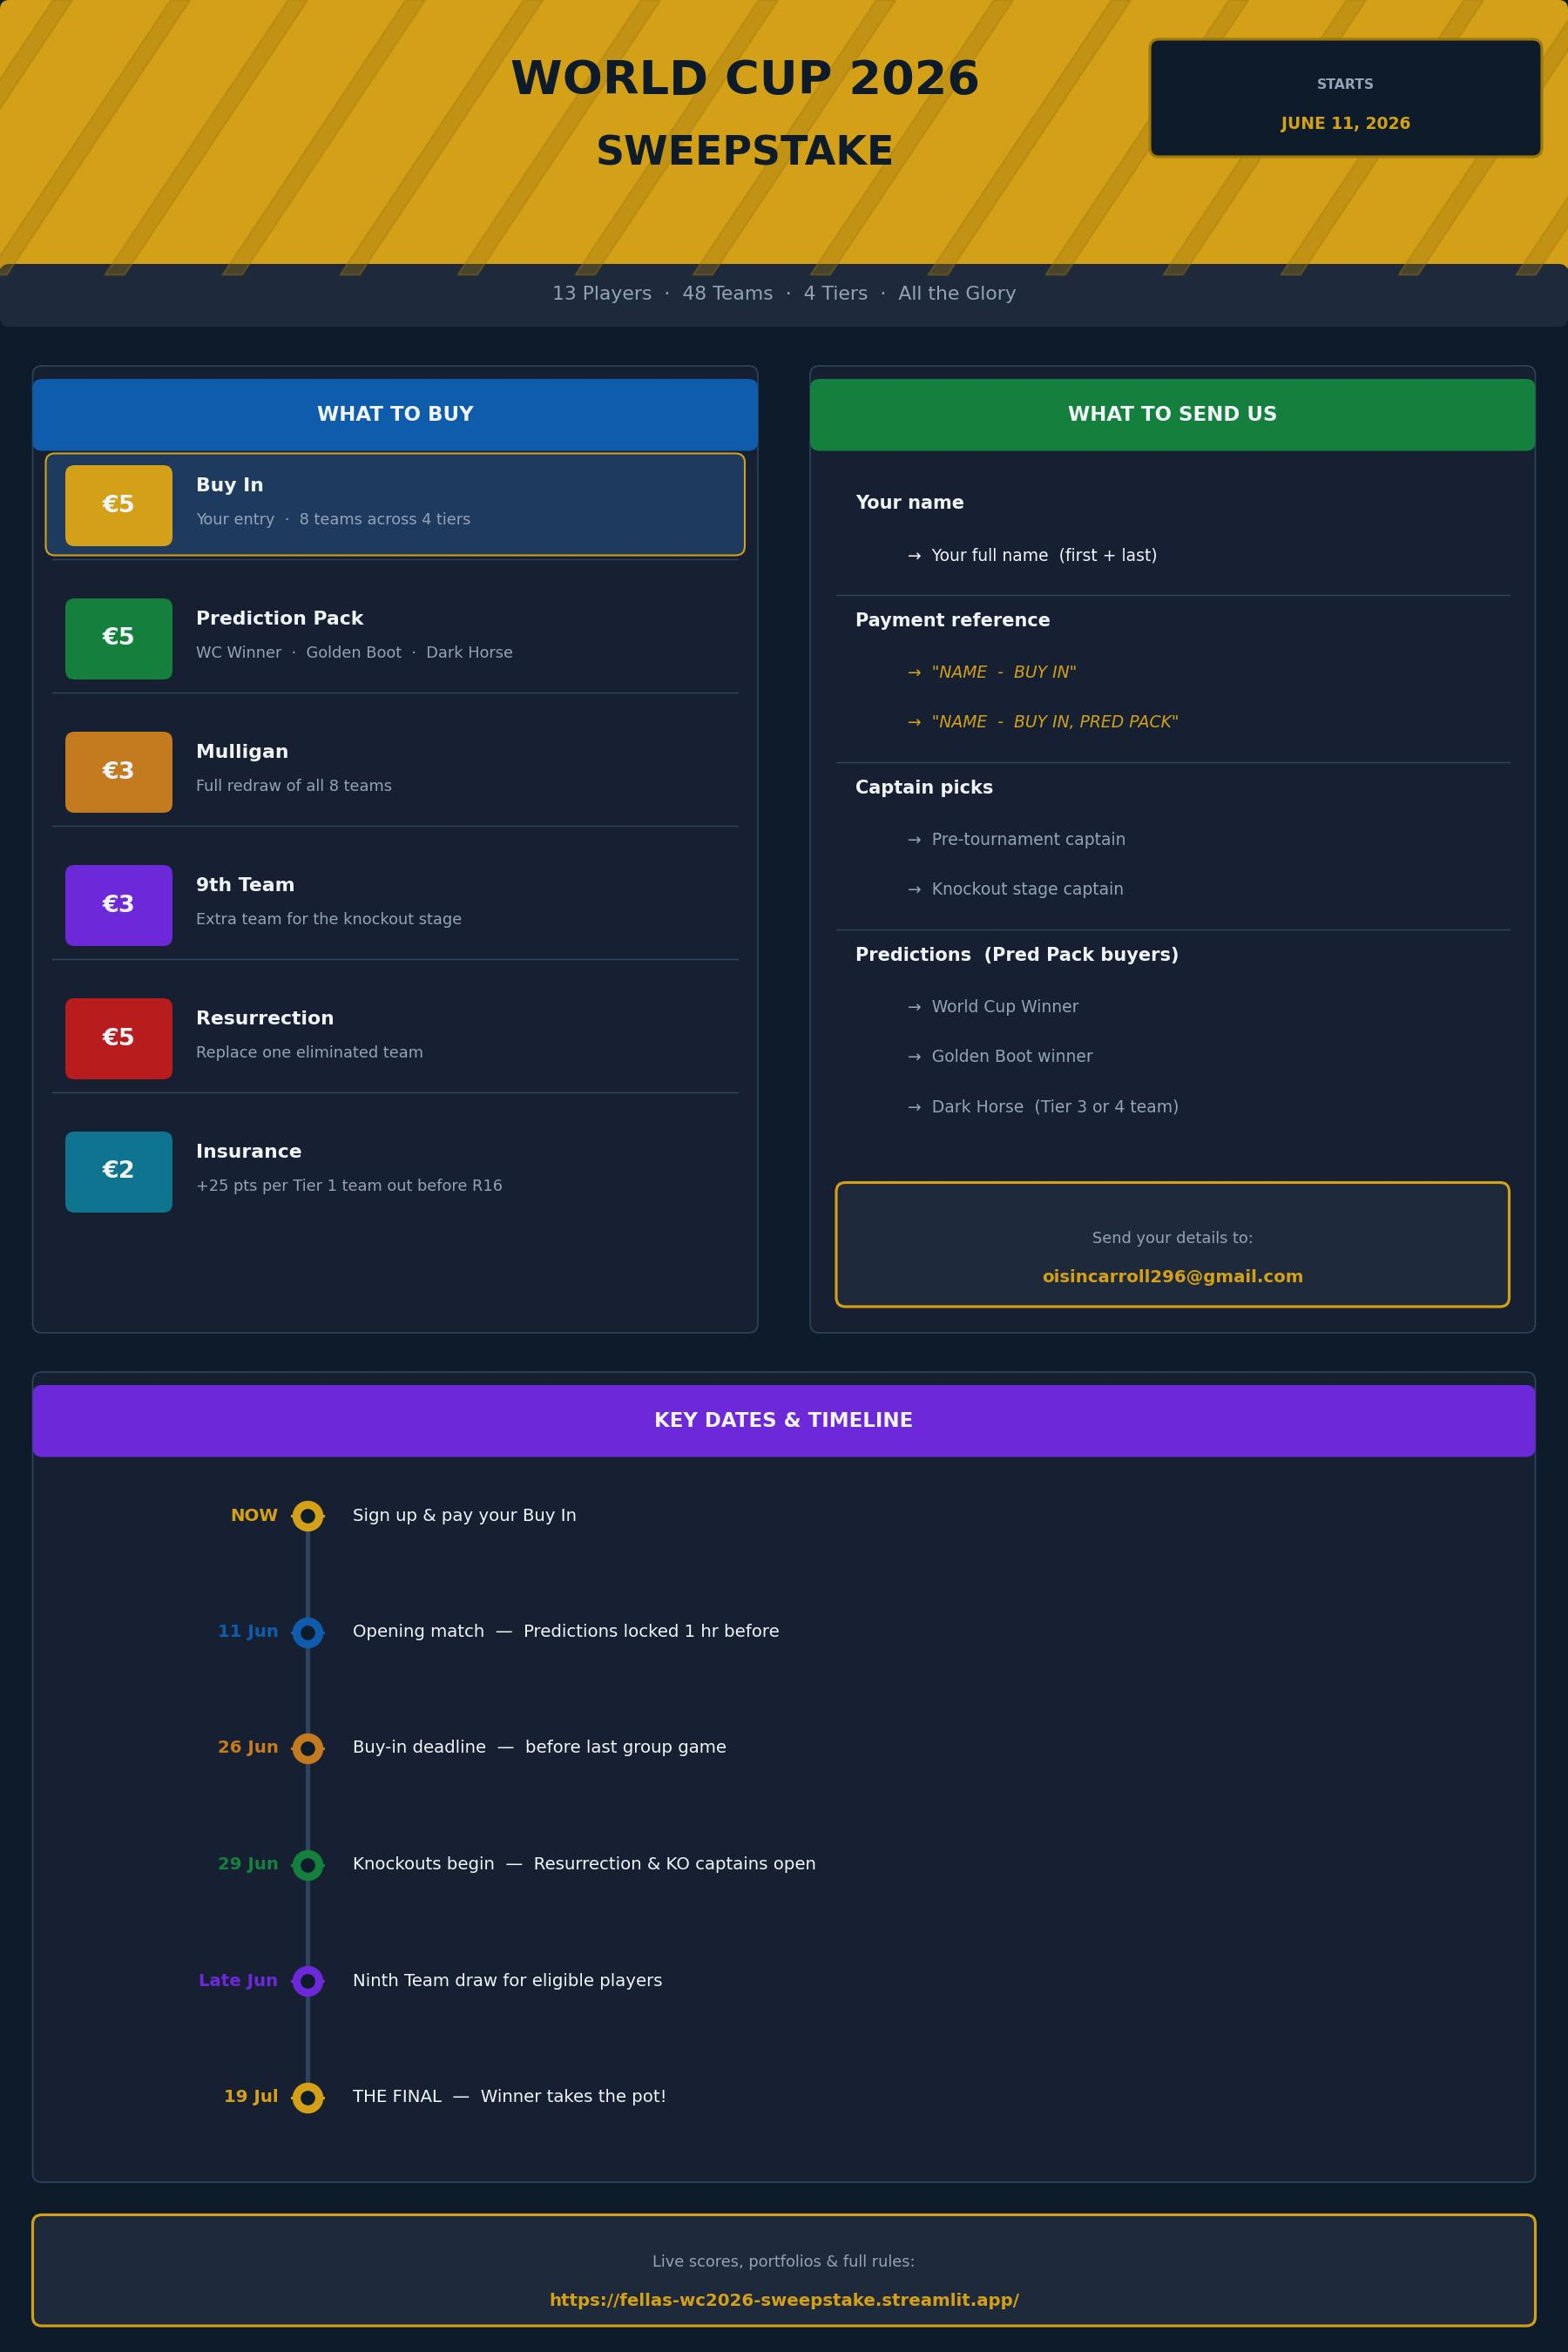
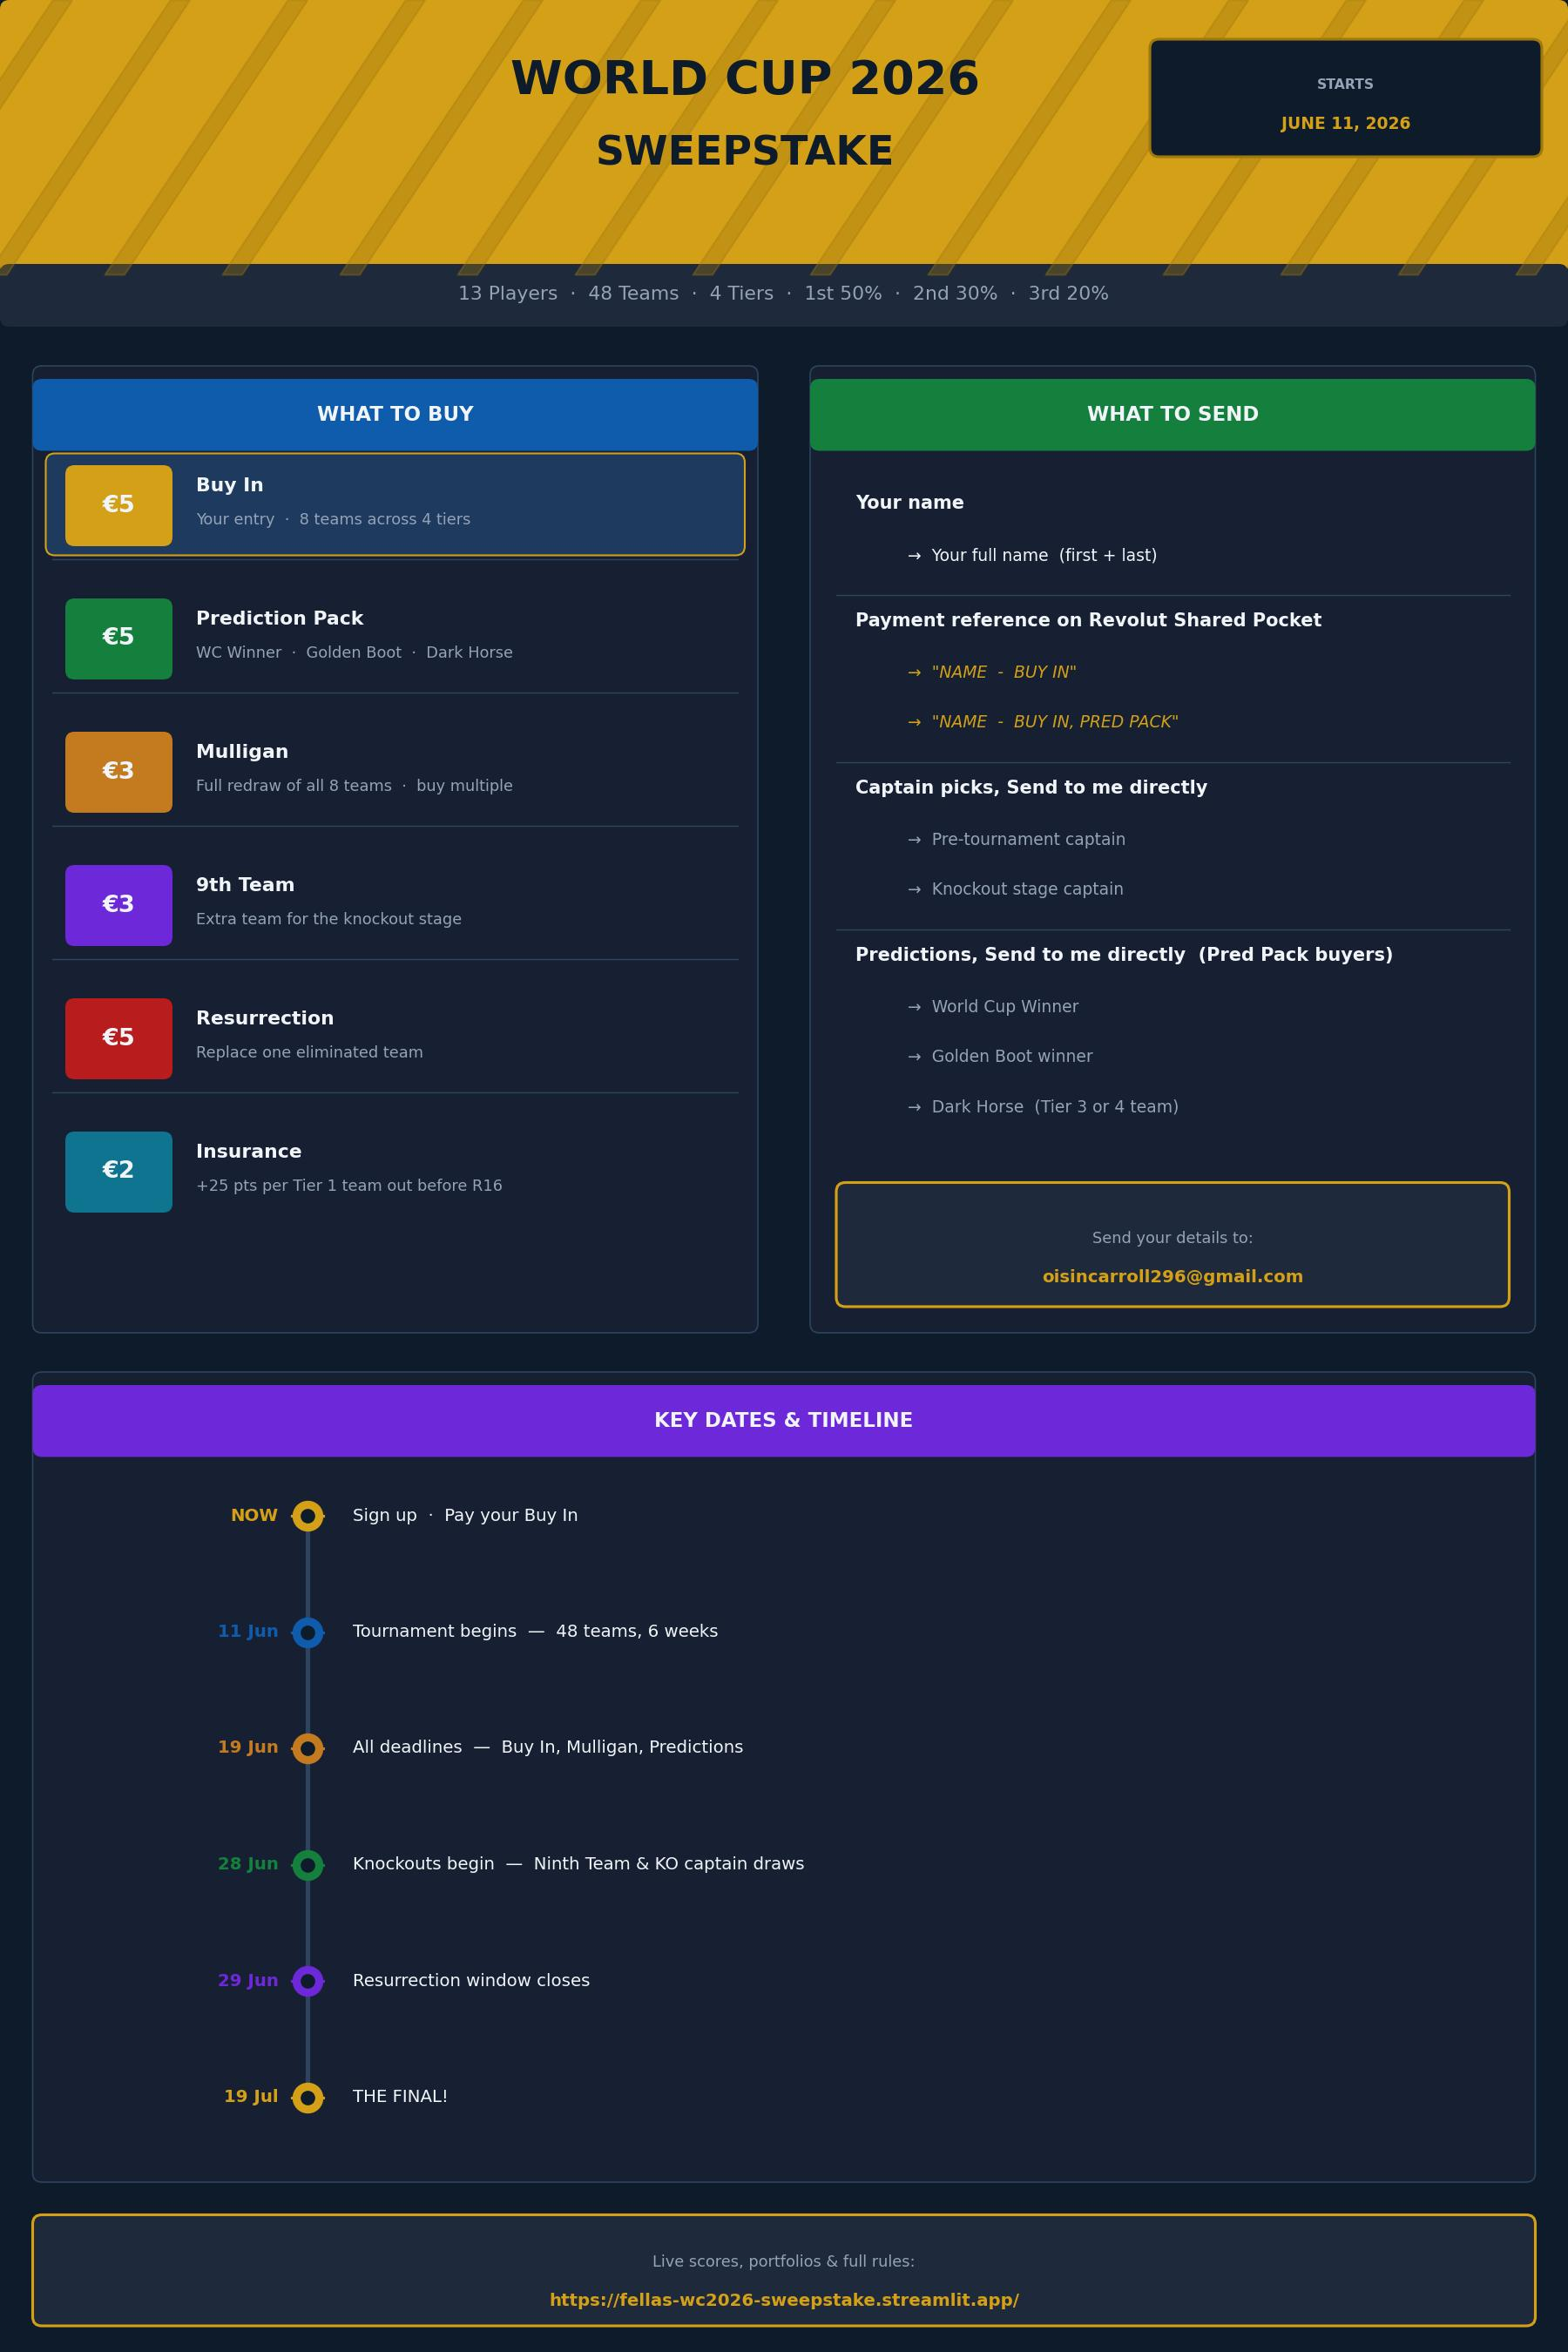
Update deadlines, allow multiple Mulligans, refresh promo graphic
- OPERATIONS.md + RULES.md: updated deadlines to match deadlines.json
  (all close 19 Jun; Mulligan noon, everything else 20:00 UTC+1)
- RULES.md: removed one-Mulligan cap; each purchase triggers a separate
  draw, most recent result becomes the allocation
- promo: Mulligan line now says 'buy multiple'; timeline dates updated
  to 19 Jun all-deadlines event; tagline now shows prize split 50/30/20

diff --git a/promo/generate_promo.py b/promo/generate_promo.py
@@ -83,7 +83,7 @@ t(W/2 - 0.3, 16.82, 'SWEEPSTAKE', sz=22, c=BG, bold=True, ha='center', z=6)
 
 # Tagline on dark strip below header
 box(0, 15.5, W, 0.48, fc=DIM, ec='none', z=2)
-t(W/2, 15.75, '13 Players  ·  48 Teams  ·  4 Tiers  ·  All the Glory',
+t(W/2, 15.75, '13 Players  ·  48 Teams  ·  4 Tiers  ·  1st 50%  ·  2nd 30%  ·  3rd 20%',
   sz=10.5, c=MUTED, ha='center', z=3)
 
 # ═══════════════════════════════════════════════════════════════════════════════
@@ -94,12 +94,12 @@ box(LX, LY, LW, LH)
 section_bar(LX, LY + LH - 0.65, LW, 'WHAT TO BUY', fc=BLUE)
 
 packages = [
-    ('Buy In',          '€5', GOLD,   'Your entry  ·  8 teams across 4 tiers',  True),
-    ('Prediction Pack', '€5', GREEN,  'WC Winner  ·  Golden Boot  ·  Dark Horse', False),
-    ('Mulligan',        '€3', AMBER,  'Full redraw of all 8 teams',              False),
-    ('9th Team',        '€3', PURPLE, 'Extra team for the knockout stage',        False),
-    ('Resurrection',    '€5', RED,    'Replace one eliminated team',              False),
-    ('Insurance',       '€2', TEAL,   '+25 pts per Tier 1 team out before R16',  False),
+    ('Buy In',          '€5', GOLD,   'Your entry  ·  8 teams across 4 tiers',       True),
+    ('Prediction Pack', '€5', GREEN,  'WC Winner  ·  Golden Boot  ·  Dark Horse',     False),
+    ('Mulligan',        '€3', AMBER,  'Full redraw of all 8 teams  ·  buy multiple',  False),
+    ('9th Team',        '€3', PURPLE, 'Extra team for the knockout stage',             False),
+    ('Resurrection',    '€5', RED,    'Replace one eliminated team',                   False),
+    ('Insurance',       '€2', TEAL,   '+25 pts per Tier 1 team out before R16',       False),
 ]
 
 ROW = 1.02
@@ -163,12 +163,12 @@ box(TX, TY, TW, TH)
 section_bar(TX, TY + TH - 0.65, TW, 'KEY DATES & TIMELINE', fc=PURPLE)
 
 events = [
-    ('NOW',       'Sign up & pay your Buy In',                              GOLD),
-    ('11 Jun',    'Opening match  —  Predictions locked 1 hr before',      BLUE),
-    ('26 Jun',    'Buy-in deadline  —  before last group game',            AMBER),
-    ('29 Jun',    'Knockouts begin  —  Resurrection & KO captains open',  GREEN),
-    ('Late Jun',  'Ninth Team draw for eligible players',                  PURPLE),
-    ('19 Jul',    'THE FINAL!',                   GOLD),
+    ('NOW',      'Sign up  ·  Pay your Buy In',                            GOLD),
+    ('11 Jun',   'Tournament begins  —  48 teams, 6 weeks',               BLUE),
+    ('19 Jun',   'All deadlines  —  Buy In, Mulligan, Predictions',       AMBER),
+    ('28 Jun',   'Knockouts begin  —  Ninth Team & KO captain draws',    GREEN),
+    ('29 Jun',   'Resurrection window closes',                            PURPLE),
+    ('19 Jul',   'THE FINAL!',                                            GOLD),
 ]
 
 DX   = TX + 2.1

diff --git a/RULES.md b/RULES.md
@@ -191,7 +191,7 @@ A Resurrection replacement does not inherit captain status from a team it replac
 
 ## MULLIGAN (€3)
 
-Available before the tournament begins.
+Available before the Mulligan deadline.
 
 Provides a complete redraw of all 8 teams.
 
@@ -202,9 +202,11 @@ The redraw must satisfy all competition allocation rules, including:
 * Ownership limits
 * Group restrictions
 
-Maximum one Mulligan per participant.
+A participant may purchase multiple Mulligans.
 
-All Mulligans are processed simultaneously.
+Each Mulligan triggers a separate draw. The result of the most recent draw becomes that participant's allocation.
+
+All Mulligans purchased before the deadline are processed together in a single draw session.
 
 ---
 
@@ -380,13 +382,12 @@ Conducted using a logged and reproducible random seed.
 
 # KEY DEADLINES
 
-| Deadline                    | Locks                                       |
-| --------------------------- | ------------------------------------------- |
-| 1 Hour Before Opening Match | Predictions                                 |
-| Before Opening Match        | Pre-Tournament Captain, Mulligan, Insurance |
-| Before Round of 16          | Knockout Captain                            |
-| After Group Stage           | Ninth Team                                  |
-| After Knockout Elimination  | Resurrection                                |
+| Deadline              | Locks                                              |
+| --------------------- | -------------------------------------------------- |
+| 19 Jun 12:00 UTC+1    | Mulligan                                           |
+| 19 Jun 20:00 UTC+1    | Predictions, Pre-Tournament Captain, Buy In        |
+| 28 Jun 20:00 UTC+1    | Knockout Captain, Ninth Team draw                  |
+| 29 Jun 19:00 UTC+1    | Resurrection window                                |
 
 ---
 

diff --git a/OPERATIONS.md b/OPERATIONS.md
@@ -12,12 +12,10 @@ Step-by-step reference for running the sweepstake from draw to prize day.
 
 | Date | Deadline |
 |------|----------|
-| 10 Jun 20:00 UTC+1 | Mulligan deadline |
-| 11 Jun 20:00 UTC+1 | Prediction lock + pre-tournament captain deadline |
-| 19 Jun 20:00 UTC+1 | Buy-in deadline (before last group game) |
+| 19 Jun 12:00 UTC+1 | Mulligan deadline |
+| 19 Jun 20:00 UTC+1 | Prediction lock + pre-tournament captain + buy-in deadline |
 | 28 Jun 03:00 UTC+1 | Group stage closes |
-| 28 Jun 19:00 UTC+1 | Knockout captain deadline |
-| 28 Jun 20:00 UTC+1 | Ninth Team draw |
+| 28 Jun 20:00 UTC+1 | Knockout captain deadline + Ninth Team draw |
 | 29 Jun 19:00 UTC+1 | Resurrection window closes |
 | 19 Jul 22:00 UTC+1 | Tournament ends |
 
@@ -82,7 +80,7 @@ When a player sends money to the **Shared Revolut Pocket**, go to **Admin → Pu
 
 ### 4. Mulligan Draw (if anyone bought one)
 
-Deadline: **10 Jun 20:00 UTC+1**
+Deadline: **19 Jun 12:00 UTC+1**
 
 1. Make sure the `Mulligan` purchase is added in Admin → Purchases
 2. Go to **Admin → Draw Events**, select `MULLIGAN_DRAW`, click **Run**
@@ -94,7 +92,7 @@ The player gets a completely new set of 8 teams. Must still pass all allocation 
 
 ### 5. Collect Predictions (Prediction Pack buyers only)
 
-Deadline: **11 Jun 20:00 UTC+1** (same as prediction lock)
+Deadline: **19 Jun 20:00 UTC+1** (same as prediction lock)
 
 Ask each Prediction Pack holder to send you three picks:
 
@@ -113,7 +111,7 @@ Alice,Brazil,Vinicius Jr,Tunisia
 
 ### 6. Collect Pre-Tournament Captains
 
-Deadline: **11 Jun 20:00 UTC+1**
+Deadline: **19 Jun 20:00 UTC+1**
 
 Each player sends you their Pre-Tournament captain. Edit `data/captains.csv` directly:
 
@@ -130,7 +128,7 @@ Alice,PreTournament,Brazil
 
 ### 7. Lock Predictions and Buy-Ins
 
-**1 hour before the opening match (11 Jun ~20:00 UTC+1):**
+**19 Jun 20:00 UTC+1:**
 
 Go to **Admin → Locking**:
 
@@ -229,7 +227,7 @@ A random surviving team the player doesn't already own is assigned to their knoc
 
 ### 13. Collect Knockout Captains
 
-Deadline: **28 Jun 20:00 UTC+1**
+Deadline: **28 Jun 20:00 UTC+1** (same as Ninth Team draw)
 
 Ask each player for their Knockout captain pick before the Round of 16 starts. Add to `data/captains.csv`:
 